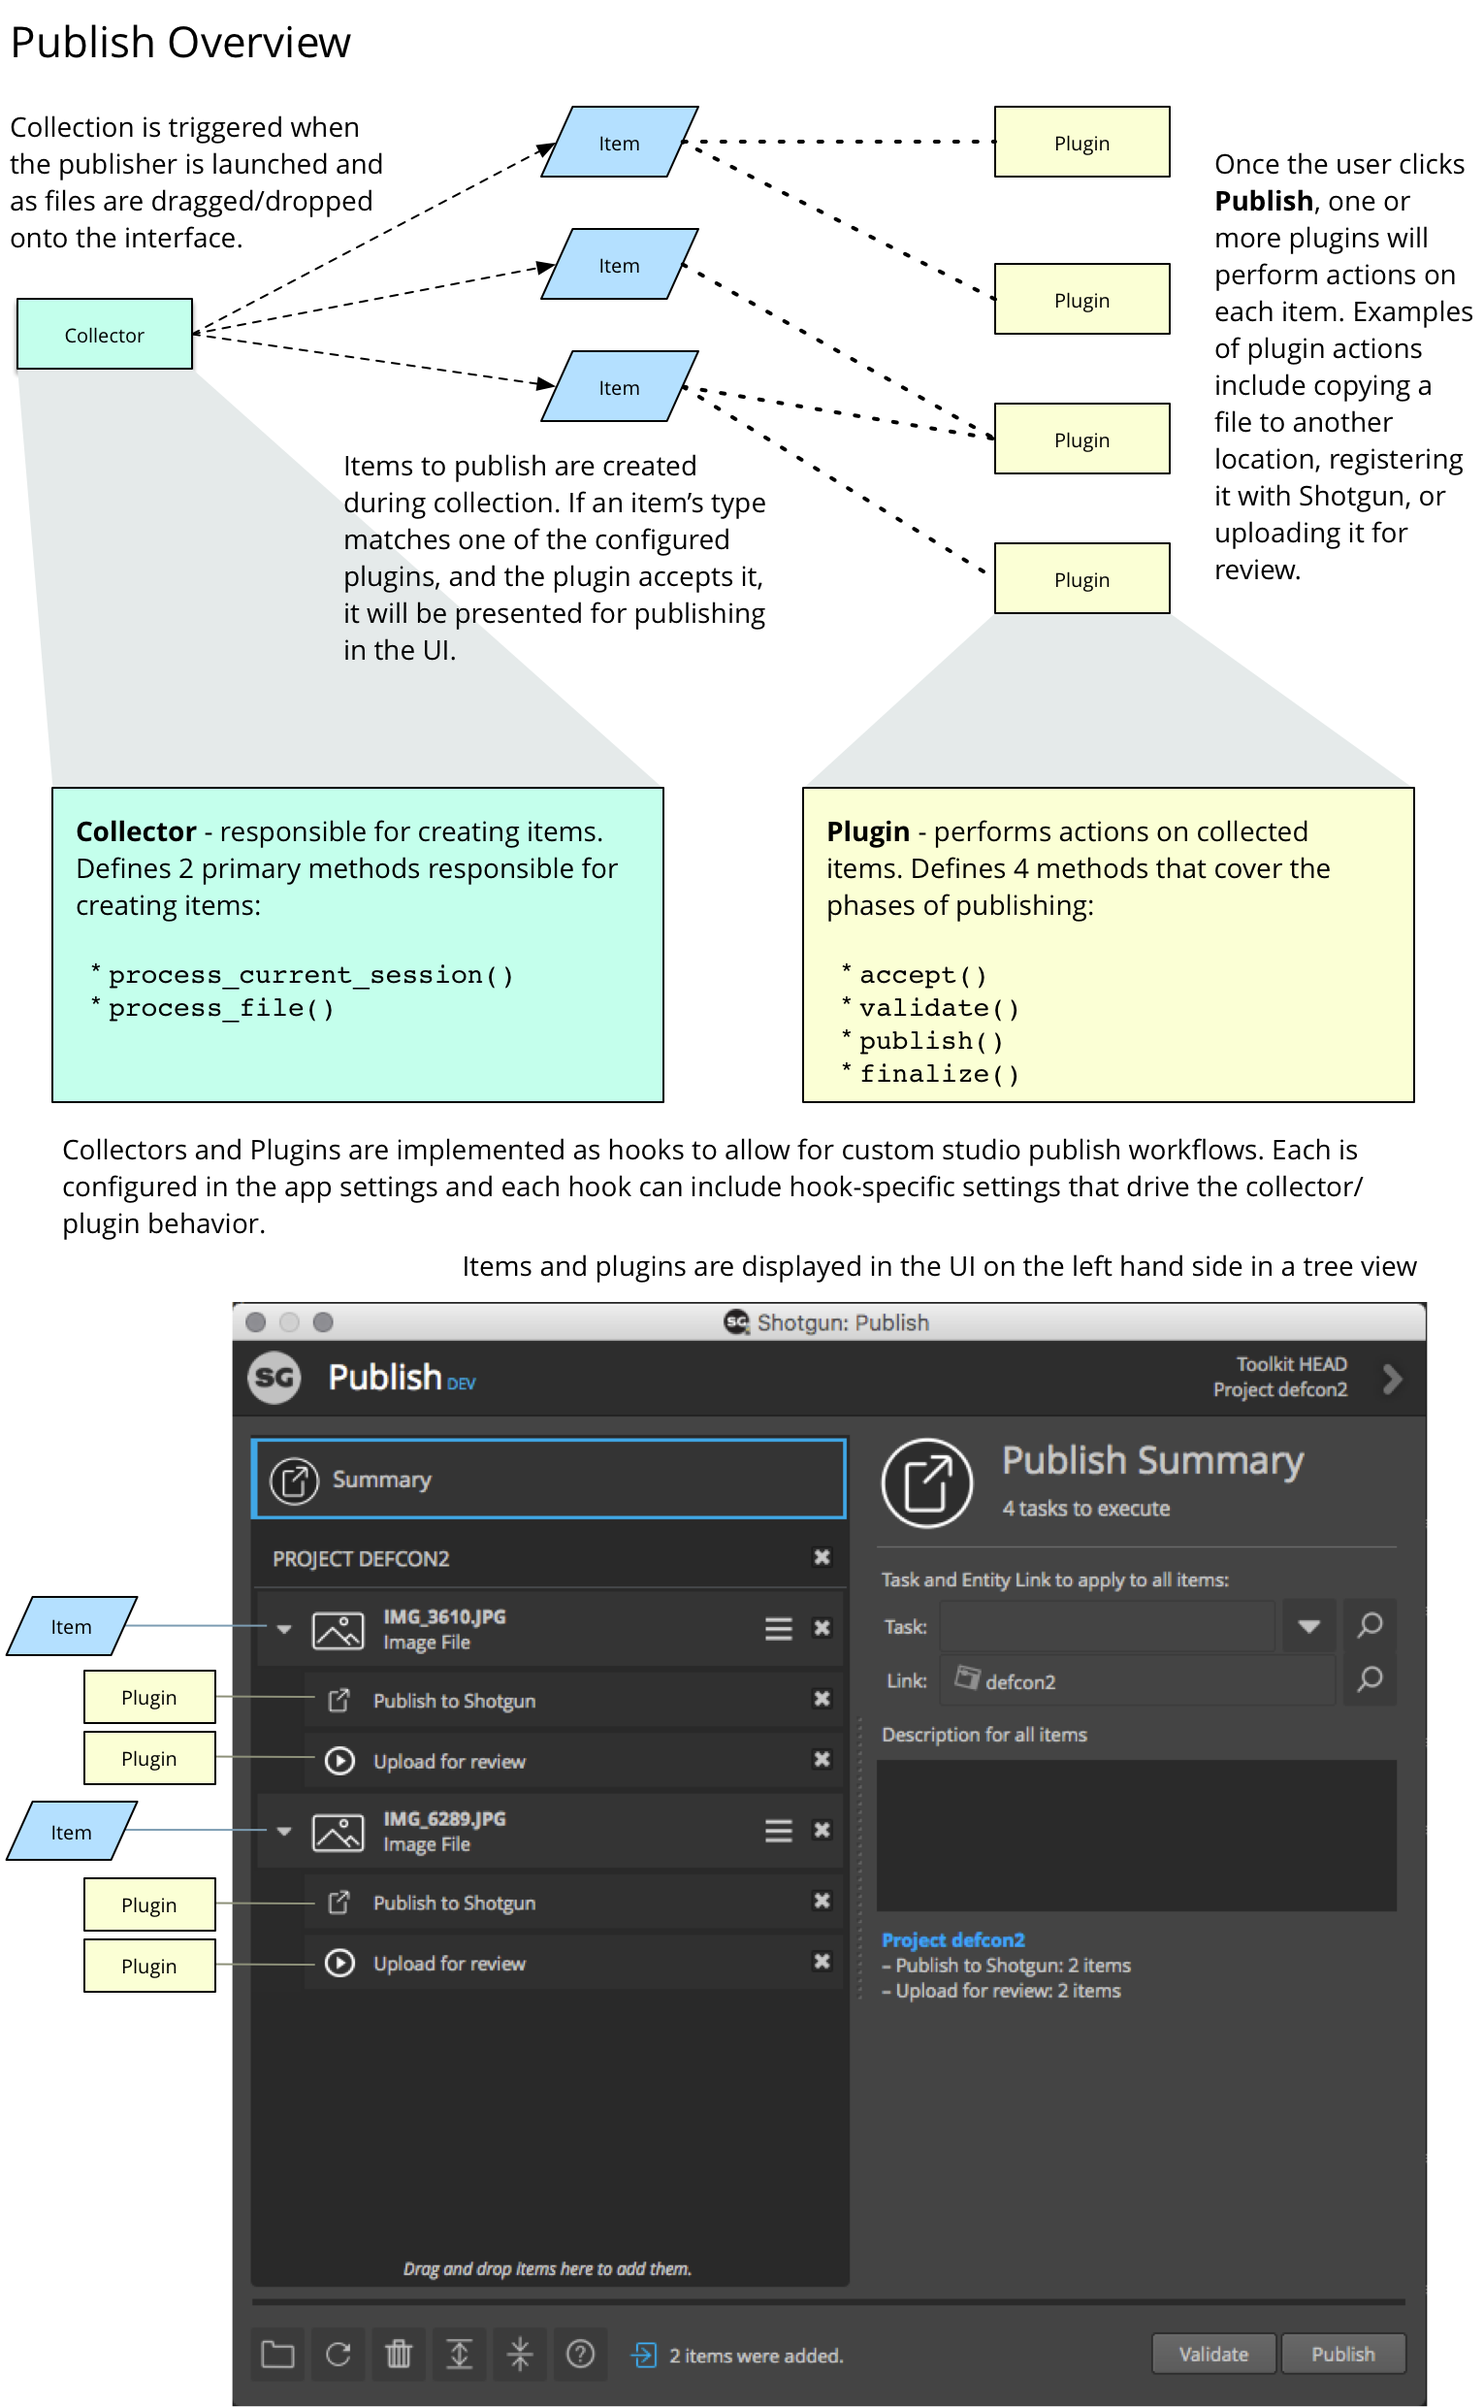
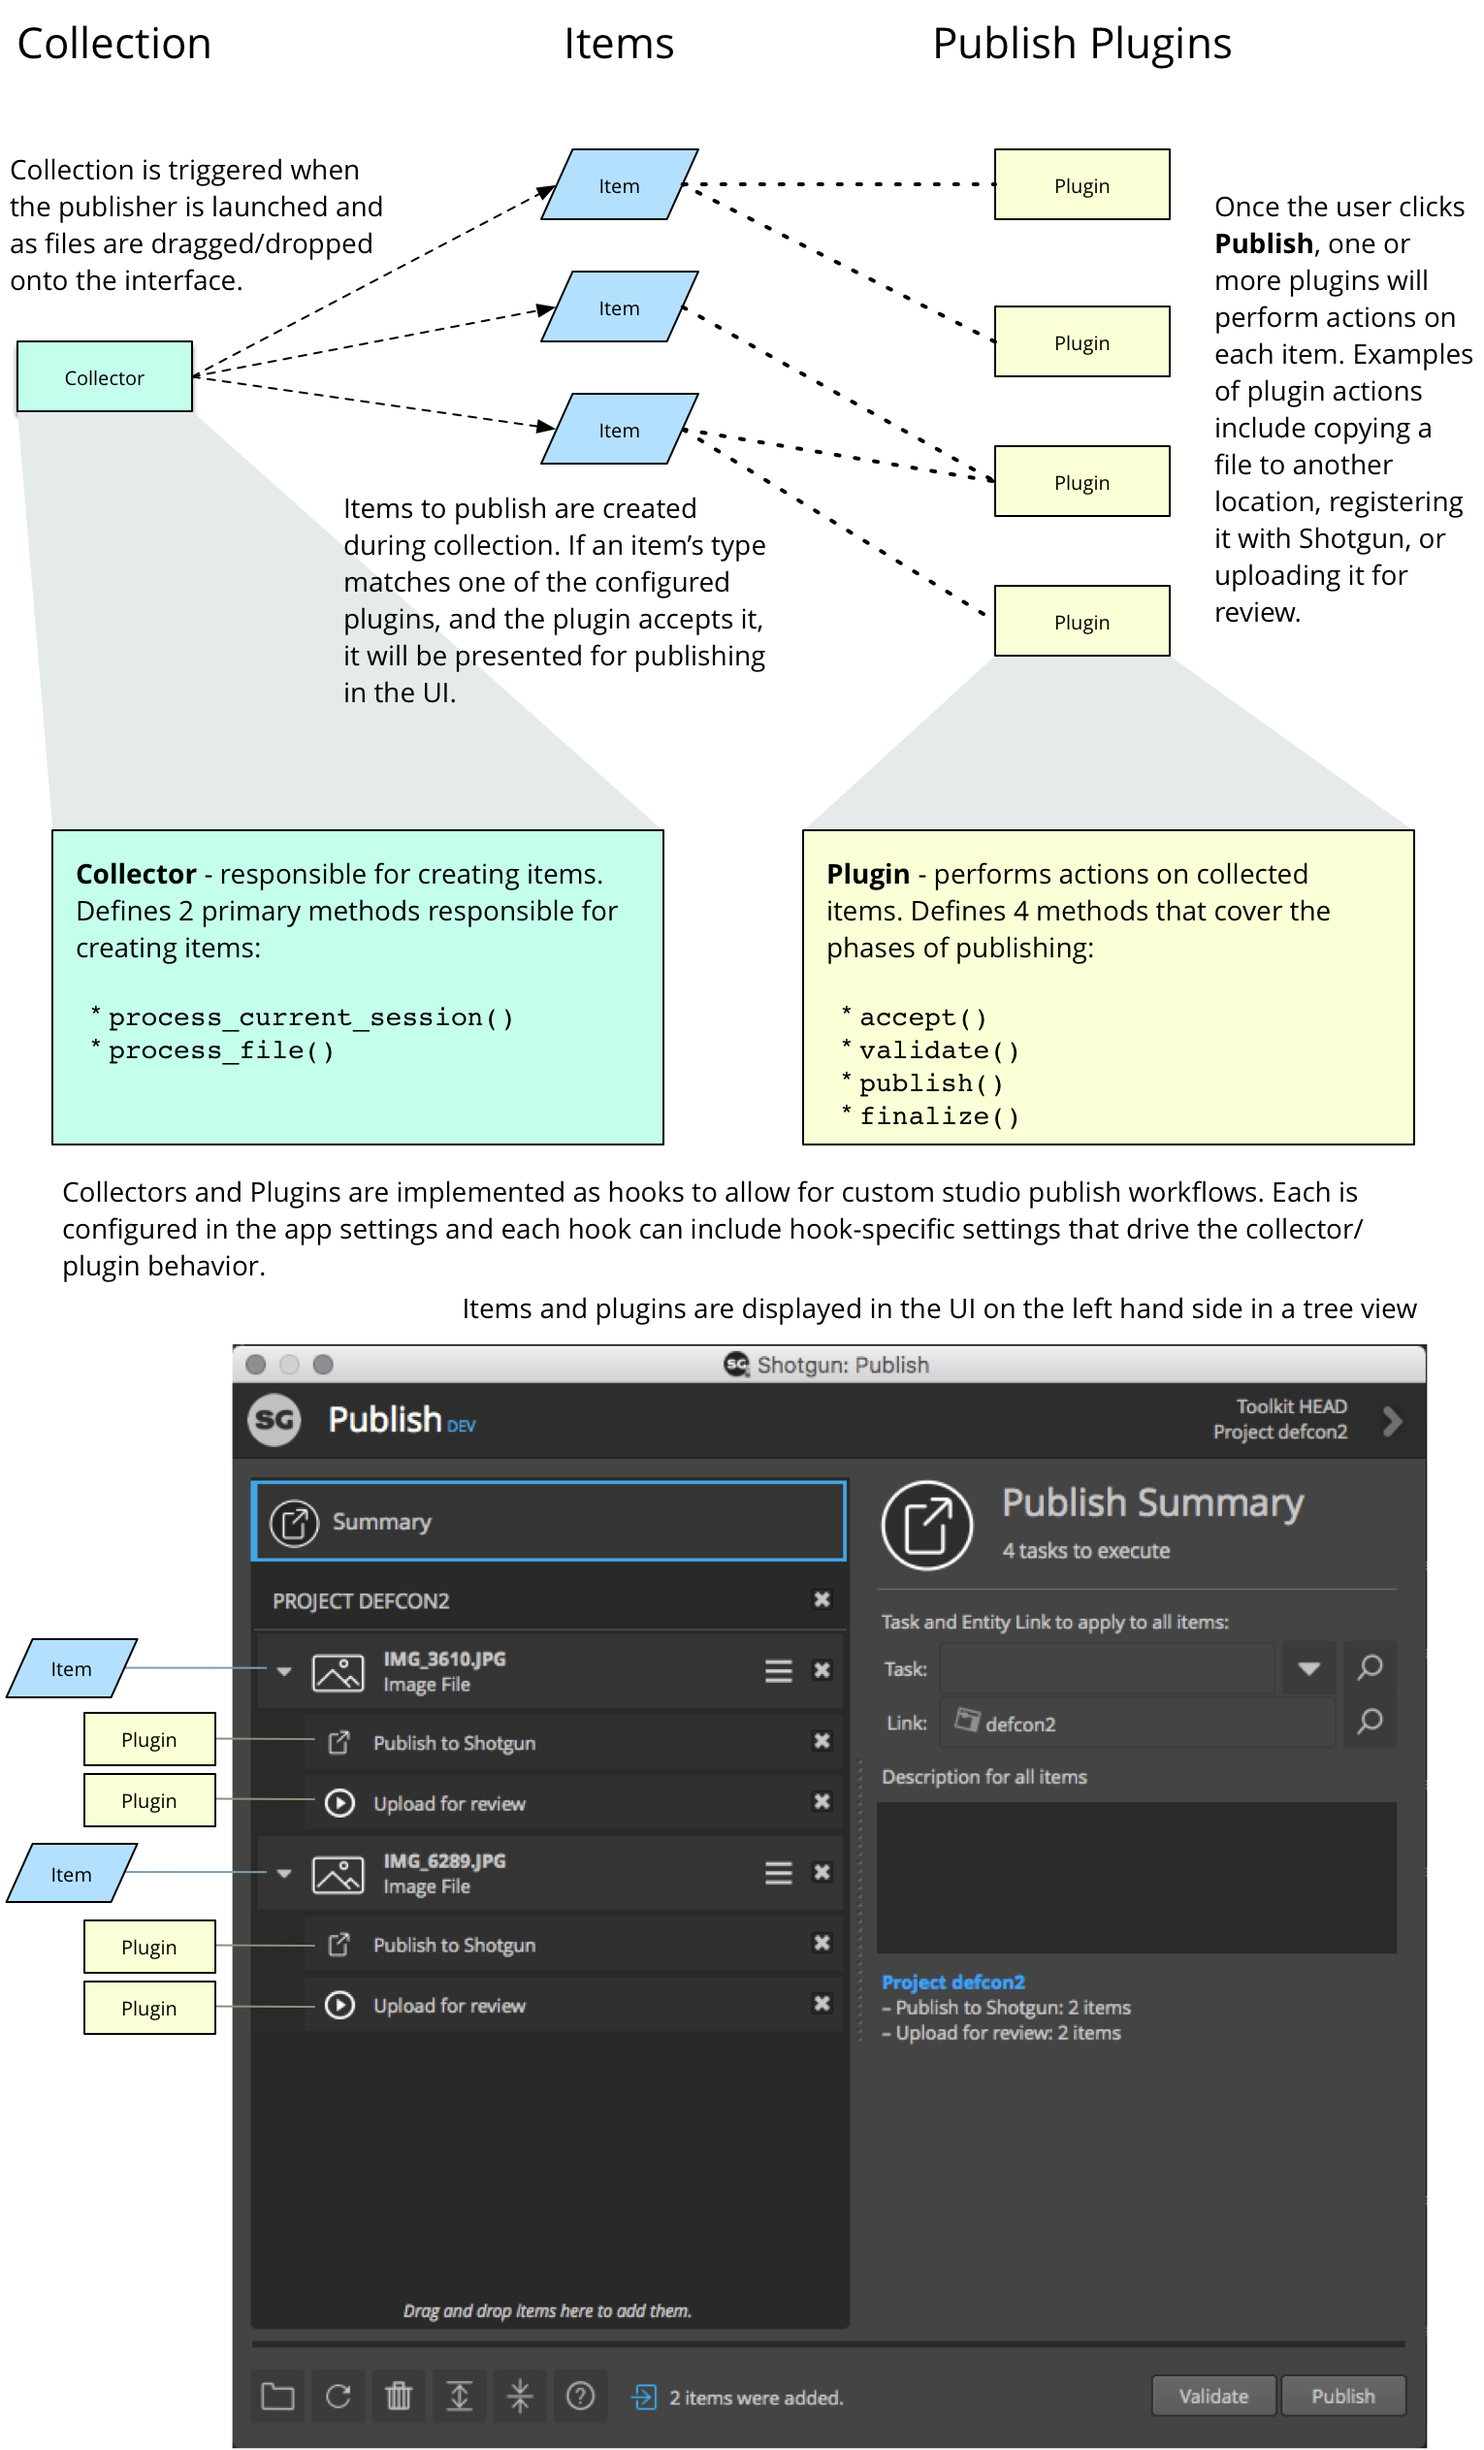
Tweaks to docs

diff --git a/docs/index.rst b/docs/index.rst
@@ -6,17 +6,22 @@ Overview
 
 The Publish app is highly customizable by way of hooks that control how items
 are presented to artists for publishing and how those items are then processed.
-The following sections outline all of the hooks and APIs available to studios
-for publish workflow customization.
+
+The graphic below outlines the major concepts of the publish2 app and API. The
+links on the left can be used to examine each of these concepts in detail.
 
 .. image:: ./resources/publish_overview.png
+
+The following sections outline all of the hooks and APIs available to studios
+for publish workflow customization.
 
 .. toctree::
     :maxdepth: 2
 
     execution
-    collector
-    plugin
+    Collection <collector>
+    Items <items>
+    Publish Plugins <plugin>
     logging
     utility
     application

diff --git a/docs/plugin.rst b/docs/plugin.rst
@@ -25,29 +25,3 @@ Publish Plugin API
 .. autoclass:: PublishPlugin
     :show-inheritance:
     :members:
-
-----
-
-Publish Items
-=============
-
-Publish items are the individual UI elements displayed to the user for
-publishing. These items are created during the collection phase of the
-publisher. Items can be displayed in a flat list for example when a collection
-of unrelated files are dragged and dropped into the publisher. Alternatively,
-items can be displayed in a hierarchy when it is important to show some
-relationship between them.
-
-.. py:currentmodule:: tk_multi_publish2.processing
-
-.. autoclass:: Item
-    :members:
-    :exclude-members: __init__, tasks, add_task, is_root, remove_item, create_invisible_root_item
-
-----
-
-Settings
-========
-
-.. autoclass:: Setting
-    :members:

diff --git a/docs/items.rst b/docs/items.rst
@@ -1,0 +1,17 @@
+Publish Items
+=============
+
+Publish items are the individual UI elements displayed to the user for
+publishing. These items are created during the collection phase of the
+publisher. Items can be displayed in a flat list for example when a collection
+of unrelated files are dragged and dropped into the publisher. Alternatively,
+items can be displayed in a hierarchy when it is important to show some
+relationship between them.
+
+----
+
+.. py:currentmodule:: tk_multi_publish2.processing
+
+.. autoclass:: Item
+    :members:
+    :exclude-members: __init__, tasks, add_task, is_root, remove_item, create_invisible_root_item
